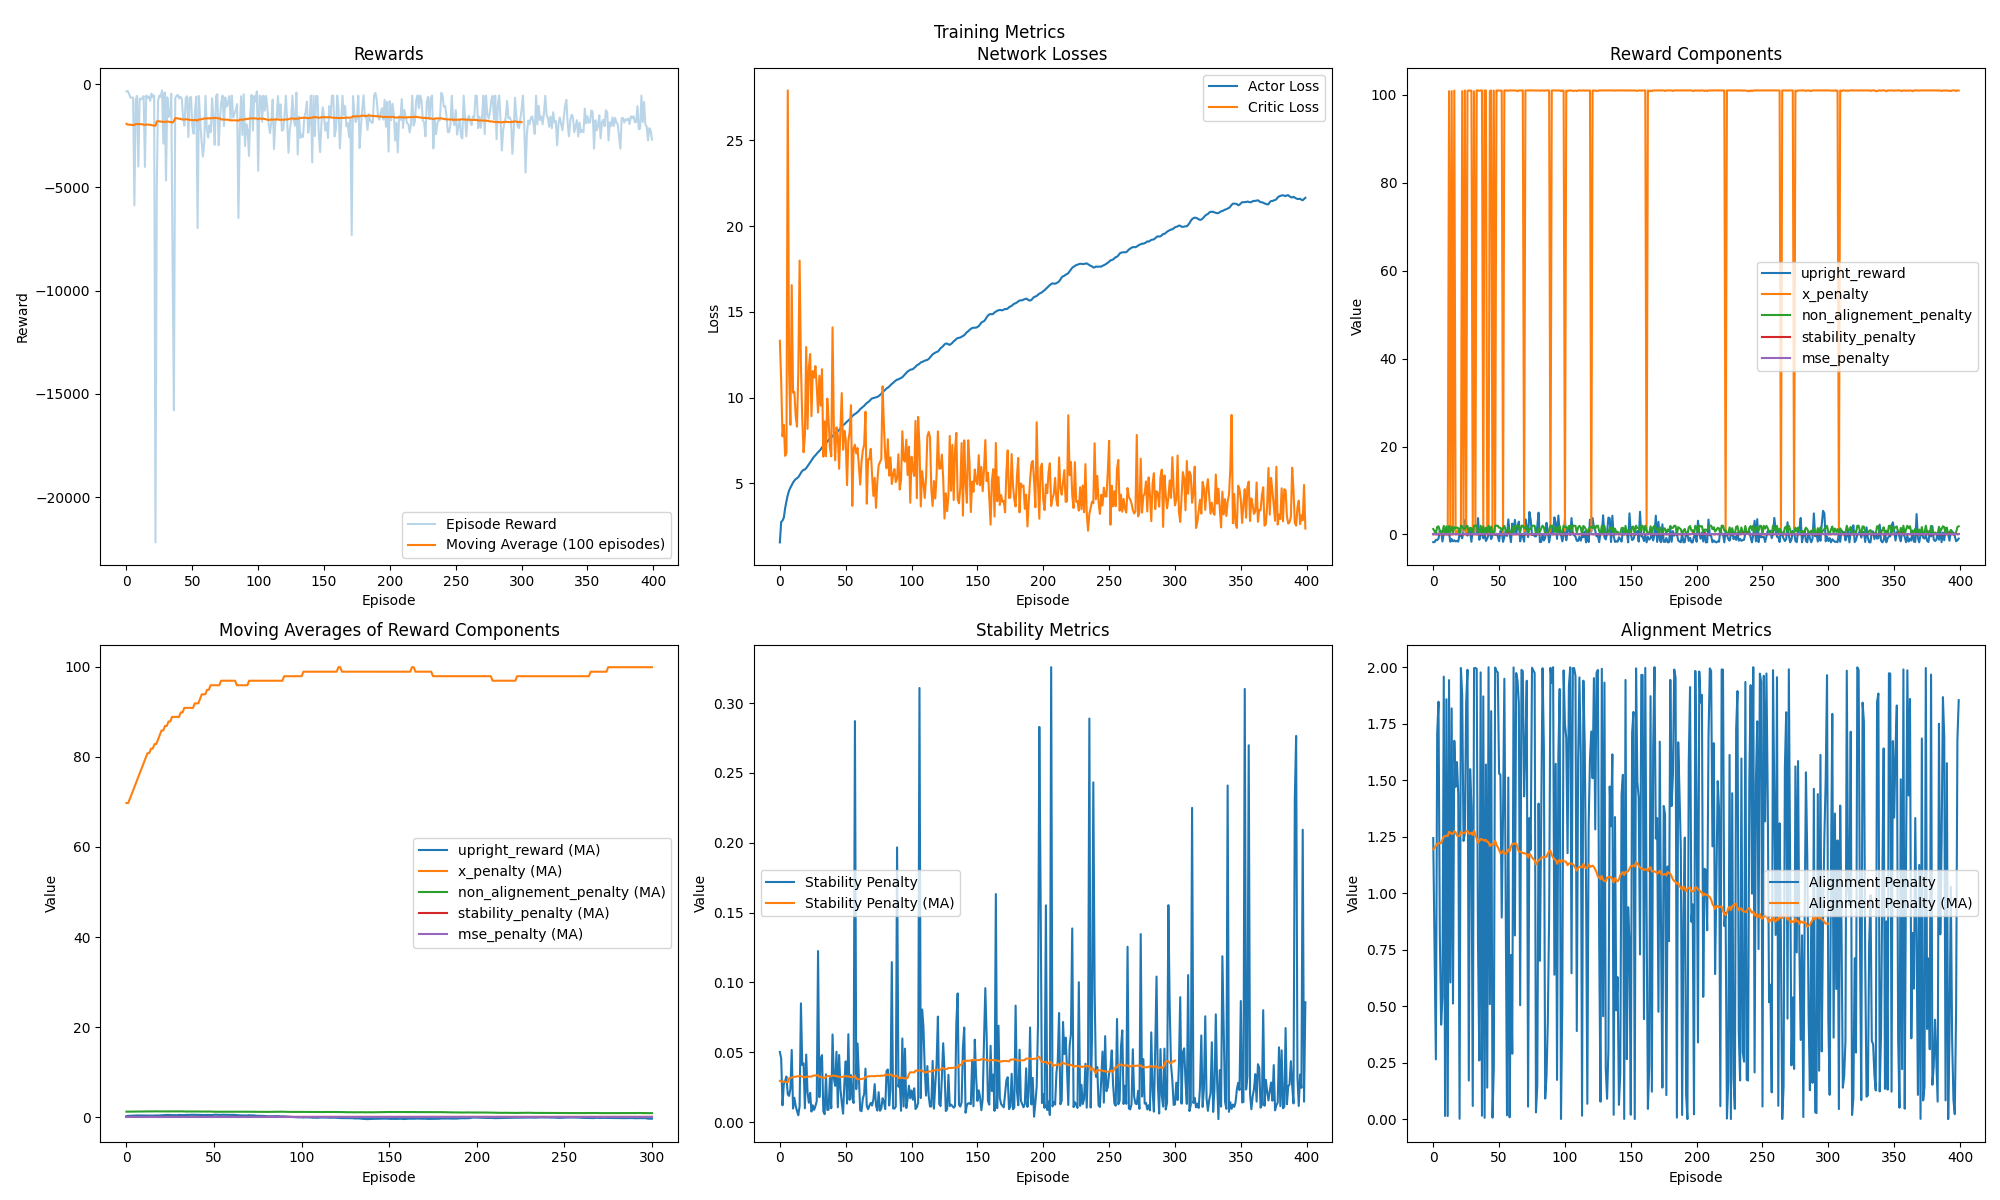
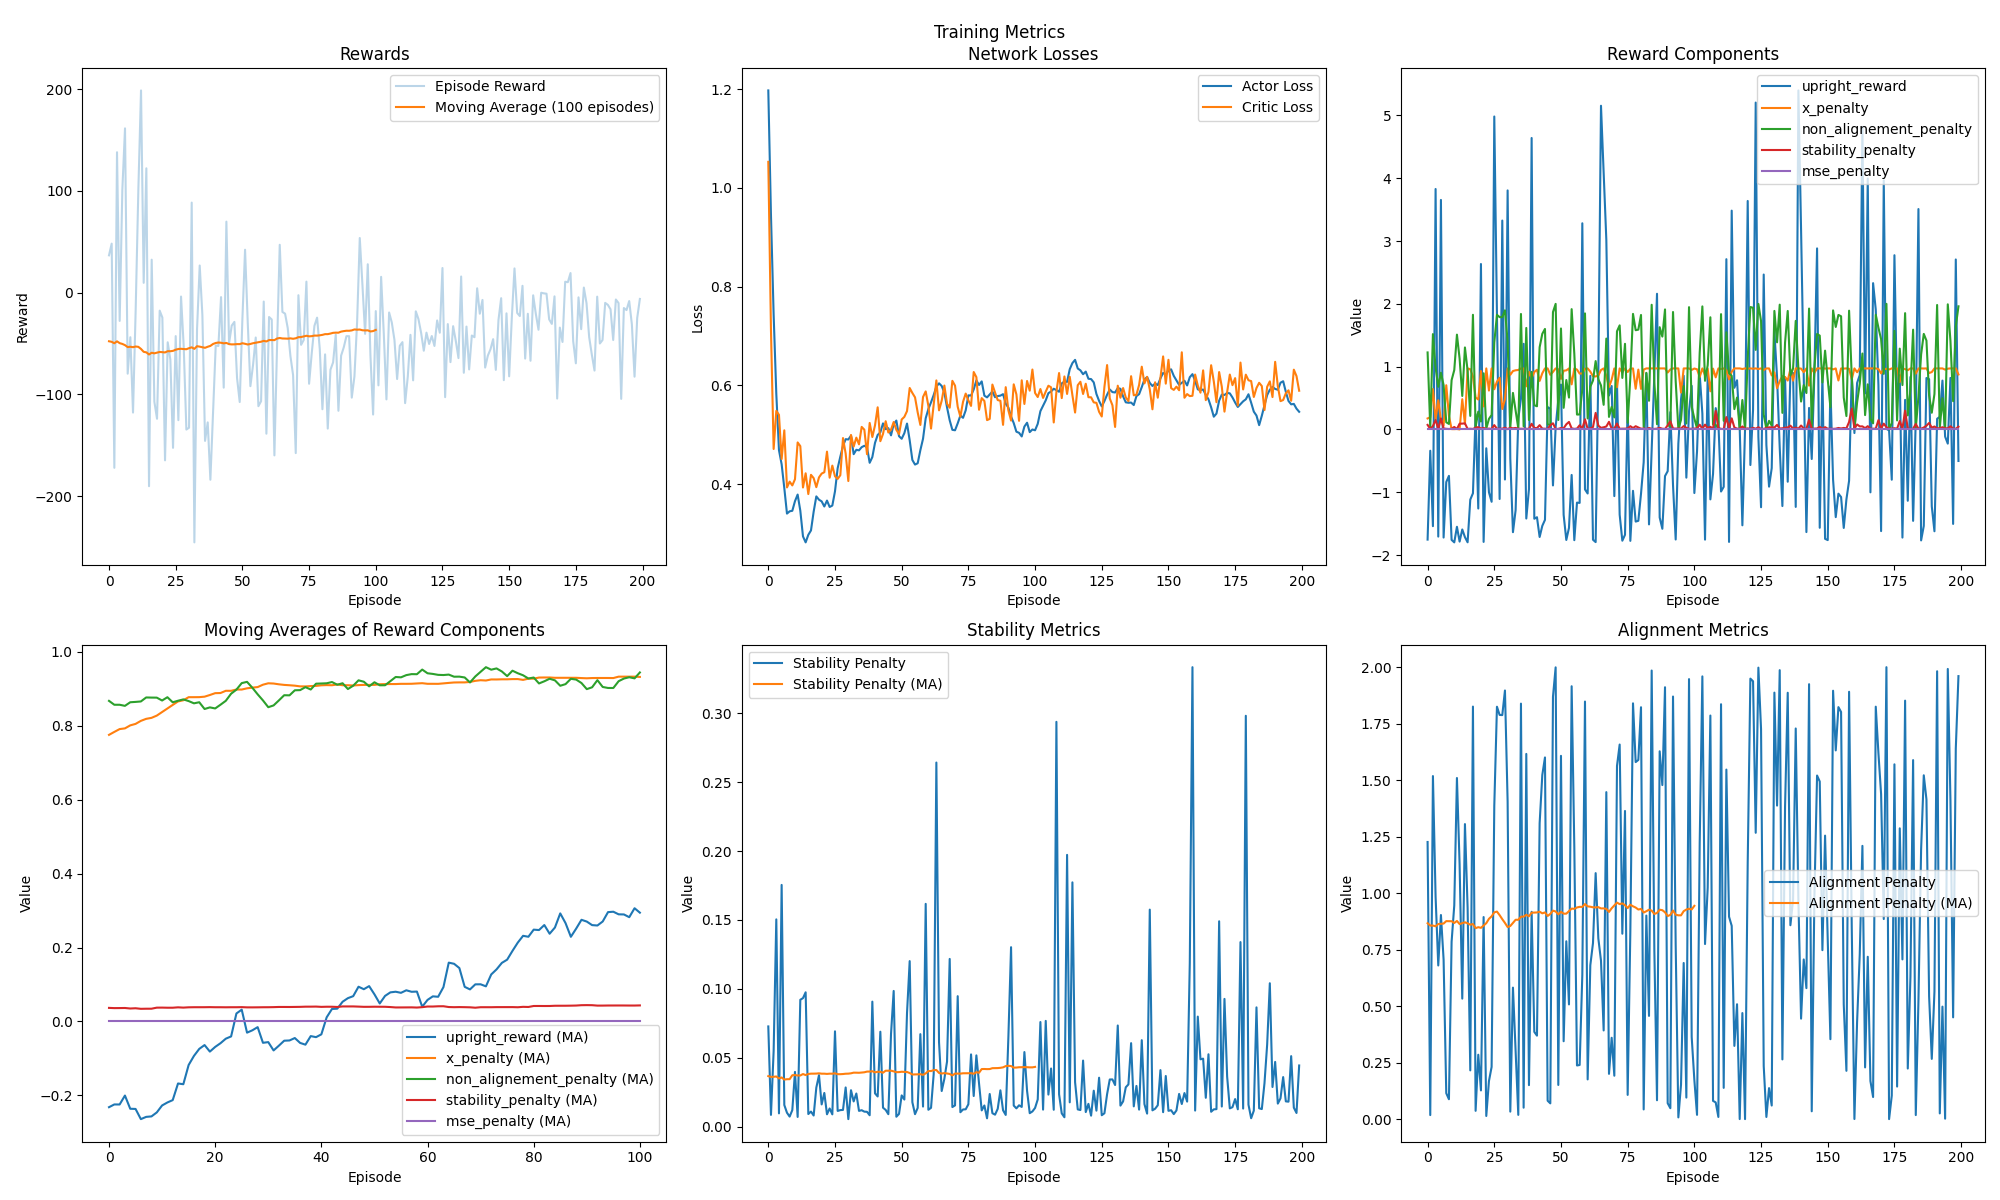
Mise à jour du fichier .gitignore pour inclure le répertoire Pendulum-NEAT-main. Modification des paramètres de configuration dans config.py, notamment l'augmentation de la valeur de gamma et la réduction de la dimension cachée. Révisions des couches dans les classes TriplePendulumActor et TriplePen

diff --git a/model.py b/model.py
@@ -29,19 +29,19 @@ class TriplePendulumActor(nn.Module):
         self.norm3 = nn.LayerNorm(hidden_dim)
         
         # Fourth layer
-        self.fc4 = nn.Linear(hidden_dim, hidden_dim // 2)
+        self.fc4 = nn.Linear(hidden_dim, hidden_dim)
         nn.init.orthogonal_(self.fc4.weight, gain=1.414)
         nn.init.constant_(self.fc4.bias, 0)
-        self.norm4 = nn.LayerNorm(hidden_dim // 2)
+        self.norm4 = nn.LayerNorm(hidden_dim)
         
         # Fifth layer
-        self.fc5 = nn.Linear(hidden_dim // 2, hidden_dim // 4)
+        self.fc5 = nn.Linear(hidden_dim, hidden_dim)
         nn.init.orthogonal_(self.fc5.weight, gain=1.414)
         nn.init.constant_(self.fc5.bias, 0)
-        self.norm5 = nn.LayerNorm(hidden_dim // 4)
+        self.norm5 = nn.LayerNorm(hidden_dim)
         
         # Output layer
-        self.fc_out = nn.Linear(hidden_dim // 4, action_dim)
+        self.fc_out = nn.Linear(hidden_dim, action_dim)
         nn.init.orthogonal_(self.fc_out.weight, gain=0.01)
         nn.init.constant_(self.fc_out.bias, 0)
         
@@ -64,6 +64,7 @@ class TriplePendulumActor(nn.Module):
         x = F.relu(x)
         x = self.dropout(x)
         
+        """
         # Third layer
         x = self.fc3(x)
         x = self.norm3(x)
@@ -80,6 +81,7 @@ class TriplePendulumActor(nn.Module):
         x = self.fc5(x)
         x = self.norm5(x)
         x = F.relu(x)
+        """
         
         # Output layer
         x = self.fc_out(x)
@@ -111,19 +113,19 @@ class TriplePendulumCritic(nn.Module):
         self.norm3 = nn.LayerNorm(hidden_dim)
         
         # Fourth layer
-        self.fc4 = nn.Linear(hidden_dim, hidden_dim // 2)
+        self.fc4 = nn.Linear(hidden_dim, hidden_dim)
         nn.init.orthogonal_(self.fc4.weight, gain=1.414)
         nn.init.constant_(self.fc4.bias, 0)
-        self.norm4 = nn.LayerNorm(hidden_dim // 2)
+        self.norm4 = nn.LayerNorm(hidden_dim)
         
         # Fifth layer
-        self.fc5 = nn.Linear(hidden_dim // 2, hidden_dim // 4)
+        self.fc5 = nn.Linear(hidden_dim, hidden_dim)
         nn.init.orthogonal_(self.fc5.weight, gain=1.414)
         nn.init.constant_(self.fc5.bias, 0)
-        self.norm5 = nn.LayerNorm(hidden_dim // 4)
+        self.norm5 = nn.LayerNorm(hidden_dim)
         
         # Output layer
-        self.fc_out = nn.Linear(hidden_dim // 4, 1)
+        self.fc_out = nn.Linear(hidden_dim, 1)
         nn.init.orthogonal_(self.fc_out.weight, gain=1)
         nn.init.constant_(self.fc_out.bias, 0)
         
@@ -148,6 +150,7 @@ class TriplePendulumCritic(nn.Module):
         x = F.relu(x)
         x = self.dropout(x)
         
+        """
         # Third layer
         x = self.fc3(x)
         x = self.norm3(x)
@@ -164,6 +167,7 @@ class TriplePendulumCritic(nn.Module):
         x = self.fc5(x)
         x = self.norm5(x)
         x = F.relu(x)
+        """
         
         # Output layer
         x = self.fc_out(x)

diff --git a/depricated/train.py b/depricated/train.py
@@ -74,18 +74,6 @@ class TriplePendulumTrainer:
         if config['load_models']:
             self.load_models()
     
-    def normalize_reward(self, reward):
-        # Update running statistics
-        self.reward_running_mean = (1 - self.reward_alpha) * self.reward_running_mean + self.reward_alpha * reward
-        self.reward_running_std = (1 - self.reward_alpha) * self.reward_running_std + self.reward_alpha * abs(reward - self.reward_running_mean)
-        
-        # Avoid division by zero
-        std = max(self.reward_running_std, 1e-6)
-        
-        # Normalize and scale
-        normalized_reward = (reward - self.reward_running_mean) / std
-        return normalized_reward * self.reward_scale
-
     def collect_trajectory(self, episode):
         state, _ = self.env.reset()
         rich_state = self.env.get_rich_state(state)
@@ -138,10 +126,7 @@ class TriplePendulumTrainer:
             # Calculate custom reward and components
             custom_reward, _, _, _, _, _, force_terminated = self.reward_manager.calculate_reward(next_rich_state, terminated, num_steps)
             reward_components = self.reward_manager.get_reward_components(next_rich_state, num_steps)
-            
-            # Normalize reward
-            normalized_reward = self.normalize_reward(custom_reward)
-            
+                        
             # Store transition in replay buffer with normalized reward
             next_rich_state_tensor = torch.FloatTensor(next_rich_state).unsqueeze(0)  # Convert to tensor
             
@@ -153,7 +138,7 @@ class TriplePendulumTrainer:
             current_seq_state = torch.cat(self.seq_state, dim=1).squeeze(0)
             
             # Stocker dans le buffer de replay
-            self.memory.push(current_seq_state, action, normalized_reward, next_seq_state, terminated)
+            self.memory.push(current_seq_state, action, custom_reward, next_seq_state, terminated)
             
             trajectory.append((next_seq_state, action, custom_reward, next_seq_state, terminated))
             episode_reward += custom_reward
@@ -185,8 +170,6 @@ class TriplePendulumTrainer:
         
         # Reshape states to handle sequence properly
         batch_size = states.shape[0]
-        seq_length = self.config['seq_length']
-        state_dim = 34  # Dimension of a single state
         
         # Reshape states from [batch_size, seq_length, state_dim] to [batch_size, seq_length*state_dim]
         states_reshaped = torch.cat([states[i] for i in range(batch_size)], dim=0).view(batch_size, -1)

diff --git a/reward.py b/reward.py
@@ -14,7 +14,7 @@ class RewardManager:
         # Reward weights
         # -----------------------
         self.cart_position_weight = 0.30
-        self.termination_penalty = 10_000
+        self.termination_penalty = 10
         self.alignement_weight = 2.0
         self.upright_weight = 1.5
         self.stability_weight = 0.02  # Weight for the stability reward
@@ -83,11 +83,12 @@ class RewardManager:
 
         end_node_y = y3 if self.num_nodes == 3 else y2 if self.num_nodes == 2 else y1
 
+        # ----------------------- REWARD COMPONENTS -----------------------
         if self.old_points_positions is None:
             self.old_points_positions = [x1, y1, x2, y2, x3, y3]
         
         # ----------------------- CART POSITION REWARD -----------------------
-        x_penalty = self.cart_position_weight * (abs(x)) **2 + (100 * (abs(x) > 1.6))
+        x_penalty = self.cart_position_weight * (abs(x)) **2
 
         # ----------------------- ANGLES ALIGNEMENT REWARD -----------------------
         non_alignement_penalty = self.alignement_weight * (((1 - np.cos(q1 - q2)) + (1 - np.cos(q2 - q3))) / 2)
@@ -151,7 +152,6 @@ class RewardManager:
         reward = upright_reward - x_penalty - non_alignement_penalty - stability_penalty - mse_penalty
 
         
-        '''
         if not self.have_been_upright_once and end_node_y > self.upright_threshold:
             self.have_been_upright_once = True
 
@@ -162,17 +162,16 @@ class RewardManager:
             reward = -10
             self.steps_double_down += 1
         
-        '''
 
         # Apply termination penalty
         if terminated:
             reward -= self.termination_penalty
-
-        self.force_terminated = False
-        if self.steps_double_down > 150:
-            self.force_terminated = True
+        
+        # ----------------------- REAL REWARD -----------------------
+        aim_y = 0.33 * self.num_nodes
+        real_reward = 2 - ((abs(aim_y - end_node_y) / aim_y) +(abs(x) / 1.6))
                    
-        return reward, upright_reward, x_penalty, non_alignement_penalty, stability_penalty, mse_penalty, self.force_terminated
+        return real_reward, upright_reward, x_penalty, non_alignement_penalty, stability_penalty, mse_penalty, self.force_terminated
     
     def get_reward_components(self, state, current_step):
         reward, upright_reward, x_penalty, non_alignement_penalty, stability_penalty, mse_penalty, force_terminated = self.calculate_reward(state, False, current_step)

diff --git a/train.py b/train.py
@@ -40,8 +40,8 @@ class TriplePendulumTrainer:
         initial_state = self.env.get_state()
         state_dim = len(initial_state) * config['seq_length']
         action_dim = 1
-        self.actor = TriplePendulumActor(state_dim, action_dim)
-        self.critic = TriplePendulumCritic(state_dim, action_dim)
+        self.actor = TriplePendulumActor(state_dim, action_dim, config['hidden_dim'])
+        self.critic = TriplePendulumCritic(state_dim, action_dim, config['hidden_dim'])
         self.seq_state = []
 
         # Optimizers
@@ -143,9 +143,6 @@ class TriplePendulumTrainer:
             custom_reward, _, _, _, _, _, force_terminated = self.reward_manager.calculate_reward(next_state, terminated, num_steps)
             reward_components = self.reward_manager.get_reward_components(next_state, num_steps)
             
-            # Normalize reward
-            normalized_reward = self.normalize_reward(custom_reward)
-            
             # Store transition in replay buffer with normalized reward
             next_state_tensor = torch.FloatTensor(next_state).unsqueeze(0)  # Convert to tensor
             
@@ -157,7 +154,7 @@ class TriplePendulumTrainer:
             current_seq_state = torch.cat(self.seq_state, dim=1).squeeze(0)
             
             # Stocker dans le buffer de replay
-            self.memory.push(current_seq_state, action, normalized_reward, next_seq_state, terminated)
+            self.memory.push(current_seq_state, action, custom_reward, next_seq_state, terminated)
             
             trajectory.append((next_seq_state, action, custom_reward, next_seq_state, terminated))
             episode_reward += custom_reward
@@ -170,7 +167,8 @@ class TriplePendulumTrainer:
             
         # Decay exploration parameters
         self.epsilon = max(self.min_epsilon, self.epsilon * self.epsilon_decay)
-            
+        print(f"Episode {episode} ended with {num_steps} steps")
+
         return trajectory, episode_reward, reward_components
     
     def update_networks(self):

diff --git a/config.py b/config.py
@@ -2,13 +2,13 @@ config = {
     'num_episodes': 10_000,
     'actor_lr': 3e-4,
     'critic_lr': 3e-4,
-    'gamma': 0.999,
+    'gamma': 1.01,
     'batch_size': 64,
-    'hidden_dim': 256,
+    'hidden_dim': 32,
     'buffer_capacity': 100000,
     'updates_per_episode': 10,
     'load_models': False,
     'num_nodes': 1,
-    'seq_length': 3,
-    'gravity': 2.0
+    'seq_length': 1,
+    'gravity': 9.81
 }
